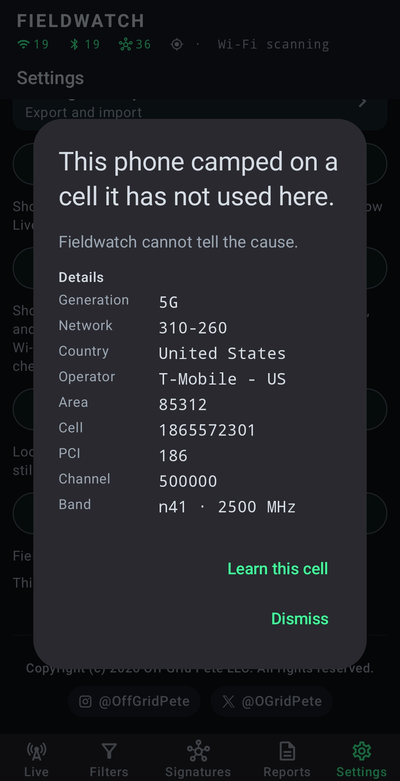
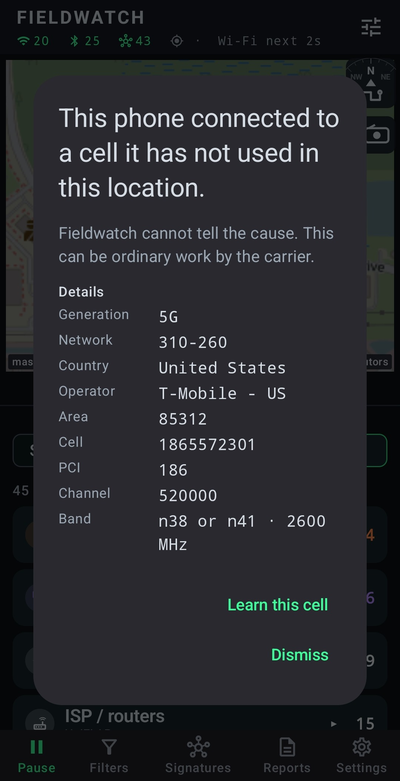
Update the README cell connection shot to the new-cell warning.

diff --git a/README.md b/README.md
@@ -74,9 +74,9 @@ There is a lot of functionality in Fieldwatch. I wrote a comprehensive user guid
   </tr>
   <tr>
     <td align="center" valign="top">
-      <img src="docs/readme/cell-connection.png" width="200" alt="Warning that this phone camped on a cell it has not used here">
+      <img src="docs/readme/cell-connection.png" width="200" alt="Warning that this phone connected to a cell it has not used in this location">
       <br><strong>Cell connection</strong>
-      <br>A warning when this phone camps on a cell it has not used here. It does not name a cause. The numbers in the shot are an example.
+      <br>A warning when this phone connects to a cell it has not used in this location. It does not name a cause. The numbers in the shot are an example.
     </td>
     <td align="center" valign="top">
       <img src="docs/readme/cell-learn.png" width="200" alt="Cell connection monitoring learning settings">
